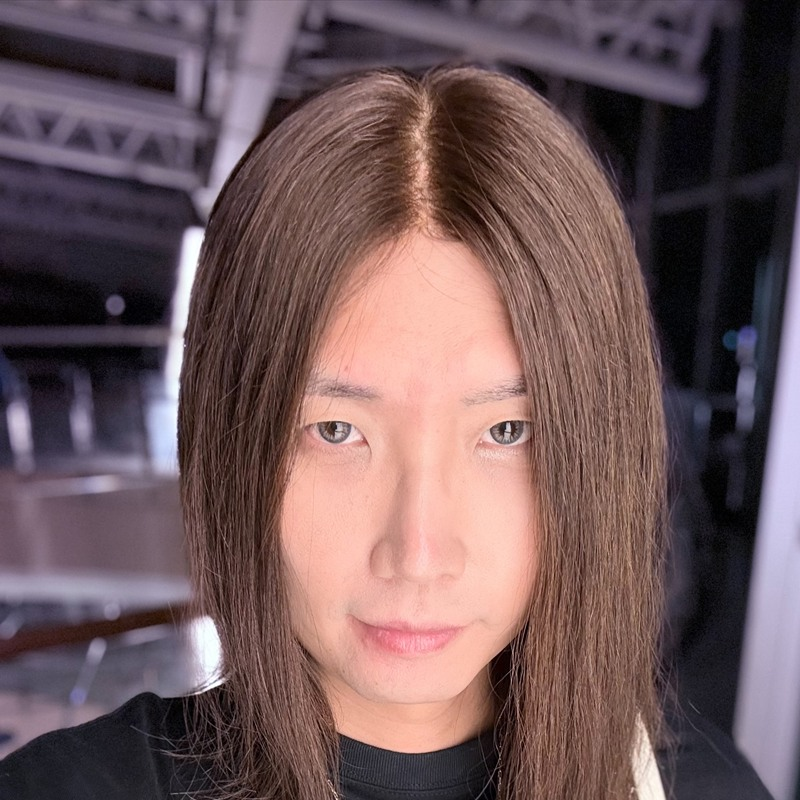
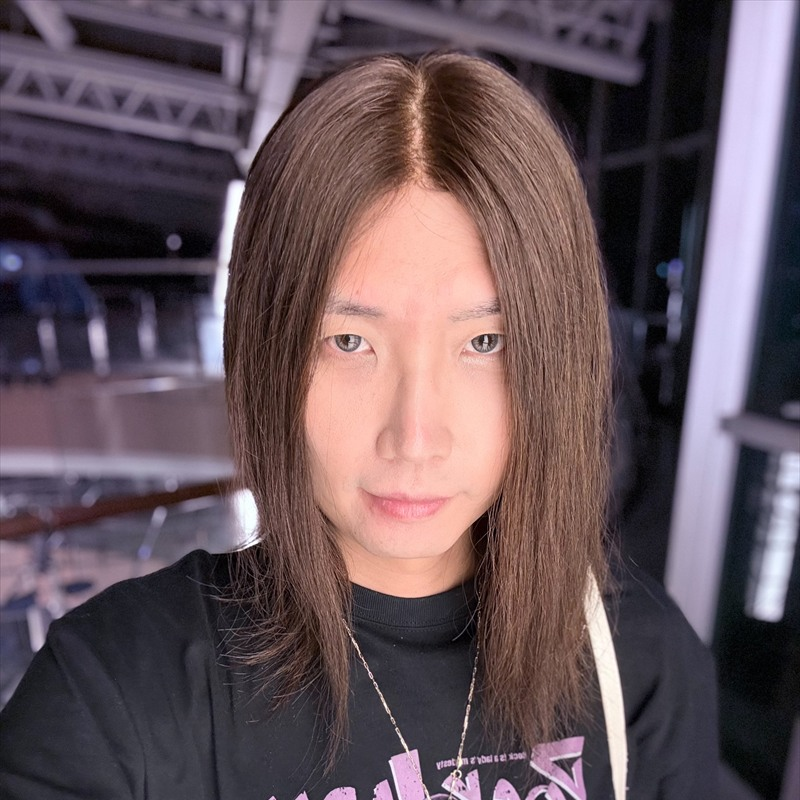
Improve the author easter egg
Reframe the portrait to retain the shoulders and upper body, add an unlabeled footer easter egg that opens the author card, and make the overlay close control unmistakable on desktop and mobile. Add coverage for the shortcut, focus restoration, and updated cache contracts.

diff --git a/assets/js/theme.js b/assets/js/theme.js
@@ -196,6 +196,7 @@ function initOnboardingTip() {
 
 function initHelpOverlay() {
   if (!helpBtn || !helpOverlay) return;
+  let returnFocus = helpBtn;
   const focusClose = () => {
     const closeBtn = helpOverlay.querySelector(".help-close");
     closeBtn?.focus?.();
@@ -206,7 +207,7 @@ function initHelpOverlay() {
     helpOverlay.setAttribute("hidden", "");
     helpBtn.setAttribute("aria-expanded", "false");
     document.body.classList.remove("help-open");
-    helpBtn.focus?.();
+    returnFocus?.focus?.();
   };
   const scrollTop = () => {
     const dialog = helpOverlay.querySelector(".help-dialog");
@@ -216,6 +217,11 @@ function initHelpOverlay() {
     } else {
       dialog.scrollTop = 0;
     }
+  };
+  const scrollAuthorIntoView = () => {
+    const author = helpOverlay.querySelector(".help-author");
+    if (!author) return;
+    author.scrollIntoView({ block: "center" });
   };
   const ensureCloseButtons = () => {
     helpOverlay.querySelectorAll(".help-close").forEach((btn) => {
@@ -237,7 +243,8 @@ function initHelpOverlay() {
       topButtons.add(btn);
     });
   };
-  const open = () => {
+  const open = (trigger = helpBtn, target = null) => {
+    returnFocus = trigger;
     try { localStorage.setItem(HELP_KEY, "1"); } catch { }
     dismissOnboardTip(true);
     ensureCloseButtons();
@@ -245,13 +252,23 @@ function initHelpOverlay() {
     helpOverlay.removeAttribute("hidden");
     helpBtn.setAttribute("aria-expanded", "true");
     document.body.classList.add("help-open");
-    requestAnimationFrame(() => { focusClose(); });
+    requestAnimationFrame(() => {
+      focusClose();
+      if (target === "author") requestAnimationFrame(scrollAuthorIntoView);
+    });
   };
 
   helpBtn.addEventListener("click", (e) => {
     e.stopPropagation();
     const isOpen = !helpOverlay.hasAttribute("hidden");
-    if (isOpen) close(); else open();
+    if (isOpen) close(); else open(helpBtn);
+  });
+  document.addEventListener("click", (event) => {
+    const trigger = event.target.closest?.("[data-author-shortcut]");
+    if (!trigger) return;
+    event.preventDefault();
+    event.stopPropagation();
+    open(trigger, "author");
   });
   helpOverlay.addEventListener("click", (e) => {
     if (e.target === helpOverlay) {

diff --git a/assets/css/overlays.css b/assets/css/overlays.css
@@ -403,6 +403,32 @@ body.help-open {
   line-height: 1;
 }
 
+.help-close {
+  width: auto;
+  min-width: 54px;
+  padding: 0 15px;
+  gap: 8px;
+  border: 2px solid rgba(255, 255, 255, .88);
+  background: linear-gradient(135deg, #e11d48, #be123c);
+  color: #fff;
+  font-size: 20px;
+  font-weight: 900;
+  box-shadow: 0 12px 30px rgba(190, 18, 60, .34), 0 0 0 3px rgba(190, 18, 60, .12);
+}
+
+.help-close::after {
+  content: attr(aria-label);
+  font-size: .78rem;
+  font-weight: 850;
+  line-height: 1;
+  white-space: nowrap;
+}
+
+.help-close:hover {
+  color: #fff;
+  background: linear-gradient(135deg, #f43f5e, #be123c);
+}
+
 .help-footer {
   margin-top: 18px;
   font-size: 13px;
@@ -466,6 +492,54 @@ kbd {
   color: color-mix(in oklab, var(--text) 70%, var(--muted) 30%);
   padding: 30px 0;
   text-align: center;
+}
+
+.footer .container {
+  display: flex;
+  align-items: center;
+  justify-content: center;
+  flex-wrap: wrap;
+  gap: 8px;
+}
+
+.footer-author-shortcut {
+  appearance: none;
+  width: 32px;
+  height: 32px;
+  padding: 5px;
+  display: inline-flex;
+  align-items: center;
+  justify-content: center;
+  border: 1px solid color-mix(in oklab, currentColor 30%, transparent);
+  border-radius: 999px;
+  color: inherit;
+  background: color-mix(in oklab, var(--panel) 68%, transparent);
+  opacity: .68;
+  cursor: pointer;
+  transition: opacity .16s ease, transform .16s ease, color .16s ease, border-color .16s ease;
+}
+
+.footer-author-shortcut svg {
+  width: 18px;
+  height: 18px;
+  fill: none;
+  stroke: currentColor;
+  stroke-width: 1.8;
+  stroke-linecap: round;
+  stroke-linejoin: round;
+}
+
+.footer-author-shortcut:hover {
+  opacity: 1;
+  color: var(--ink);
+  border-color: color-mix(in oklab, var(--accent-2) 58%, currentColor);
+  transform: translateY(-2px);
+}
+
+.footer-author-shortcut:focus-visible {
+  opacity: 1;
+  outline: 2px solid var(--ring);
+  outline-offset: 3px;
 }
 
 .spinner {

diff --git a/dev.html b/dev.html
@@ -110,9 +110,9 @@
   <link rel="stylesheet" href="assets/css/base.css" />
   <link rel="stylesheet" href="assets/css/layout.css" />
   <link rel="stylesheet" href="assets/css/components.css" />
-  <link rel="stylesheet" href="assets/css/overlays.css?v=20260802-author1" />
+  <link rel="stylesheet" href="assets/css/overlays.css?v=20260802-author2" />
   <link rel="stylesheet" href="assets/css/experiments.css?v=20260802-pitch1" />
-  <link rel="stylesheet" href="assets/css/quick-experience.css?v=20260802-refine1" />
+  <link rel="stylesheet" href="assets/css/quick-experience.css?v=20260802-author2" />
   <script type="importmap">
   {
     "imports": {
@@ -587,6 +587,14 @@
   <footer class="footer">
     <div class="container">
       <small data-i18n="footer.note">Demo only．模型傾向分數僅供自我練習參考</small>
+      <button type="button" class="footer-author-shortcut" data-author-shortcut
+        aria-label="開啟彩蛋"
+        data-i18n-attrs="aria-label:footer.easterEggAria">
+        <svg viewBox="0 0 24 24" aria-hidden="true">
+          <circle cx="12" cy="8" r="4"></circle>
+          <path d="M4 21c0-5 3.6-8 8-8s8 3 8 8"></path>
+        </svg>
+      </button>
     </div>
   </footer>
 
@@ -598,8 +606,8 @@
     window.VPA_SHARE_SERVICE_ORIGIN = window.VPA_SHARE_SERVICE_ORIGIN
       ?? (['127.0.0.1', 'localhost'].includes(location.hostname) ? '' : 'https://vpa-share.evelynjoellelin.workers.dev');
   </script>
-  <script type="module" src="assets/app.js?v=20260801-socialacoustic1"></script>
-  <script type="module" src="assets/experiments/experience-shell.js?v=20260802-refine1"></script>
+  <script type="module" src="assets/app.js?v=20260802-author2"></script>
+  <script type="module" src="assets/experiments/experience-shell.js?v=20260802-author2"></script>
 </body>
 
 </html>

diff --git a/index.html b/index.html
@@ -128,9 +128,9 @@
   <link rel="stylesheet" href="assets/css/base.css" />
   <link rel="stylesheet" href="assets/css/layout.css" />
   <link rel="stylesheet" href="assets/css/components.css" />
-  <link rel="stylesheet" href="assets/css/overlays.css?v=20260802-author1" />
+  <link rel="stylesheet" href="assets/css/overlays.css?v=20260802-author2" />
   <link rel="stylesheet" href="assets/css/experiments.css?v=20260802-pitch1" />
-  <link rel="stylesheet" href="assets/css/quick-experience.css?v=20260802-refine1" />
+  <link rel="stylesheet" href="assets/css/quick-experience.css?v=20260802-author2" />
   <script type="importmap">
   {
     "imports": {
@@ -605,6 +605,14 @@
   <footer class="footer">
     <div class="container">
       <small data-i18n="footer.note">Demo only．模型傾向分數僅供自我練習參考</small>
+      <button type="button" class="footer-author-shortcut" data-author-shortcut
+        aria-label="開啟彩蛋"
+        data-i18n-attrs="aria-label:footer.easterEggAria">
+        <svg viewBox="0 0 24 24" aria-hidden="true">
+          <circle cx="12" cy="8" r="4"></circle>
+          <path d="M4 21c0-5 3.6-8 8-8s8 3 8 8"></path>
+        </svg>
+      </button>
     </div>
   </footer>
 
@@ -615,8 +623,8 @@
     window.VPA_SHARE_SERVICE_ORIGIN = window.VPA_SHARE_SERVICE_ORIGIN
       ?? 'https://vpa-share.evelynjoellelin.workers.dev';
   </script>
-  <script type="module" src="assets/app.js?v=20260801-socialacoustic1"></script>
-  <script type="module" src="assets/experiments/experience-shell.js?v=20260802-refine1"></script>
+  <script type="module" src="assets/app.js?v=20260802-author2"></script>
+  <script type="module" src="assets/experiments/experience-shell.js?v=20260802-author2"></script>
 </body>
 
 </html>

diff --git a/assets/i18n/ja.js b/assets/i18n/ja.js
@@ -637,7 +637,7 @@ export default {
       "</ul>",
       "</section>",
       '<div class="help-author">',
-      '<img src="assets/avatar-evelyn.jpg" alt="Gongzi Jie の作者ポートレート" class="help-author-img" loading="lazy" />',
+      '<img src="assets/avatar-evelyn.jpg?v=20260802-author2" alt="Gongzi Jie の作者ポートレート" class="help-author-img" loading="lazy" />',
       '<div class="help-author-text">',
       "<h4>作者：Gongzi Jie</h4>",
       "<p>コーディングもボイストレーニングも、探究を続ける過程を大切にしています。<br>VPA へのご意見やボイストレーニングについてのお話は、Instagram からお気軽にどうぞ。</p>",
@@ -655,6 +655,7 @@ export default {
   },
   footer: {
     note: "デモ用途です。モデルの傾向スコアは個人練習の参考としてご利用ください",
+    easterEggAria: "隠し要素を開く",
   },
   player: {
     ariaPause: "再生を一時停止",

diff --git a/assets/i18n/en.js b/assets/i18n/en.js
@@ -628,7 +628,7 @@ export default {
       '</ul>',
       '</section>',
       '<div class="help-author">',
-      '<img src="assets/avatar-evelyn.jpg" alt="Portrait of Gongzi Jie" class="help-author-img" loading="lazy" />',
+      '<img src="assets/avatar-evelyn.jpg?v=20260802-author2" alt="Portrait of Gongzi Jie" class="help-author-img" loading="lazy" />',
       '<div class="help-author-text">',
       '<h4>About the Author: Gongzi Jie</h4>',
       '<p>Whether coding or voice training, it’s all about the journey of exploration.<br>If you have feedback on VPA or want to chat about voice training, feel free to connect with me on Instagram!</p>',
@@ -646,6 +646,7 @@ export default {
   },
   footer: {
     note: "Demo only. Model tendencies are for personal practice feedback",
+    easterEggAria: "Open the easter egg",
   },
   player: {
     play: "▶ Play the last take",

diff --git a/assets/i18n/zh-Hans.js b/assets/i18n/zh-Hans.js
@@ -617,7 +617,7 @@ export default {
       '</ul>',
       '</section>',
       '<div class="help-author">',
-      '<img src="assets/avatar-evelyn.jpg" alt="公子姐的作者照片" class="help-author-img" loading="lazy" />',
+      '<img src="assets/avatar-evelyn.jpg?v=20260802-author2" alt="公子姐的作者照片" class="help-author-img" loading="lazy" />',
       '<div class="help-author-text">',
       '<h4>关于作者：公子姐</h4>',
       '<p>不管是写代码还是练伪音，都是一条充满探索的路。<br>如果您对 VPA 有任何建议，或想交流声音训练的心得，欢迎来我的 Instagram 找我！</p>',
@@ -634,6 +634,7 @@ export default {
   },
   footer: {
     note: "Demo only．模型倾向分数仅供自我练习参考",
+    easterEggAria: "开启彩蛋",
   },
   player: {
     play: "▶ 播放刚才的声音",

diff --git a/assets/i18n/zh-Hant.js b/assets/i18n/zh-Hant.js
@@ -628,7 +628,7 @@ export default {
       '</ul>',
       '</section>',
       '<div class="help-author">',
-      '<img src="assets/avatar-evelyn.jpg" alt="公子姐的作者照片" class="help-author-img" loading="lazy" />',
+      '<img src="assets/avatar-evelyn.jpg?v=20260802-author2" alt="公子姐的作者照片" class="help-author-img" loading="lazy" />',
       '<div class="help-author-text">',
       '<h4>關於作者：公子姐</h4>',
       '<p>不管是寫程式還是練偽音，都是一條充滿探索的路。<br>如果您對 VPA 有任何建議，或想交流聲音訓練的心得，歡迎來我的 Instagram 找我！</p>',
@@ -646,6 +646,7 @@ export default {
   },
   footer: {
     note: "Demo only．模型傾向分數僅供自我練習參考",
+    easterEggAria: "開啟彩蛋",
   },
   player: {
     play: "▶ 播放剛才的聲音",

diff --git a/tests/e2e/manual.spec.js b/tests/e2e/manual.spec.js
@@ -34,4 +34,19 @@ test.describe("Voice Manual Overlay", () => {
     await expect(overlay).toBeHidden();
     await expect(guideBtn).toBeFocused();
   });
+
+  test("footer author shortcut opens the author card and restores focus on close", async ({ page }) => {
+    const shortcut = page.locator("[data-author-shortcut]:visible");
+    const overlay = page.locator("#helpOverlay");
+
+    await shortcut.scrollIntoViewIfNeeded();
+    await shortcut.click();
+    await expect(overlay).toBeVisible();
+    await expect(page.locator(".help-author")).toBeInViewport();
+    await expect(page.locator("#helpOverlay .help-close")).toBeVisible();
+
+    await page.locator("#helpOverlay .help-close").click();
+    await expect(overlay).toBeHidden();
+    await expect(shortcut).toBeFocused();
+  });
 });

diff --git a/assets/experiments/experience-shell.js b/assets/experiments/experience-shell.js
@@ -639,7 +639,16 @@ function renderQuickExperience() {
           : quickStage === "standard-next"
             ? standardCheckpointMarkup()
             : progressMarkup()}
-      <footer class="quick-footer">${escapeHtml(t("experiment.quick.footer"))}</footer>
+      <footer class="quick-footer">
+        <span>${escapeHtml(t("experiment.quick.footer"))}</span>
+        <button type="button" class="footer-author-shortcut" data-author-shortcut
+          aria-label="${escapeHtml(t("footer.easterEggAria"))}">
+          <svg viewBox="0 0 24 24" aria-hidden="true">
+            <circle cx="12" cy="8" r="4"></circle>
+            <path d="M4 21c0-5 3.6-8 8-8s8 3 8 8"></path>
+          </svg>
+        </button>
+      </footer>
     </div>
   `;
   bindCommonControls(quickExperience);

diff --git a/tests/e2e/helpers.js b/tests/e2e/helpers.js
@@ -57,6 +57,14 @@ export async function installDeterministicRuntime(page, {
     });
   });
 
+  await page.route("https://cdn.buymeacoffee.com/**", async (route) => {
+    await route.fulfill({
+      status: 200,
+      contentType: "image/svg+xml",
+      body: `<svg xmlns="http://www.w3.org/2000/svg" width="180" height="42" viewBox="0 0 180 42"><rect width="180" height="42" rx="21" fill="#ffdd00"/></svg>`,
+    });
+  });
+
   if (mockAnalytics) {
     await page.route("https://www.googletagmanager.com/gtag/js**", async (route) => {
       await route.fulfill({ status: 200, contentType: "text/javascript", body: "" });

diff --git a/assets/css/quick-experience.css b/assets/css/quick-experience.css
@@ -1043,6 +1043,11 @@ html[data-faction="dark"] .quick-experience {
   color:var(--quick-muted);
   font-size:.74rem;
   text-align:center;
+  display:flex;
+  align-items:center;
+  justify-content:center;
+  flex-wrap:wrap;
+  gap:8px;
 }
 html[data-experience="quick"] body > .hero,
 html[data-experience="quick"] body > #dropZone,
